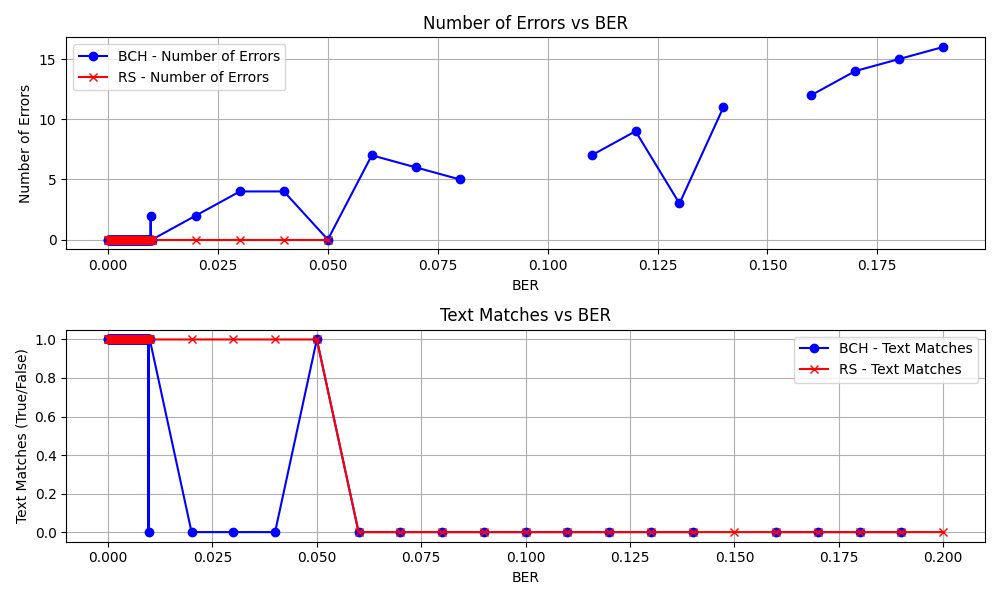
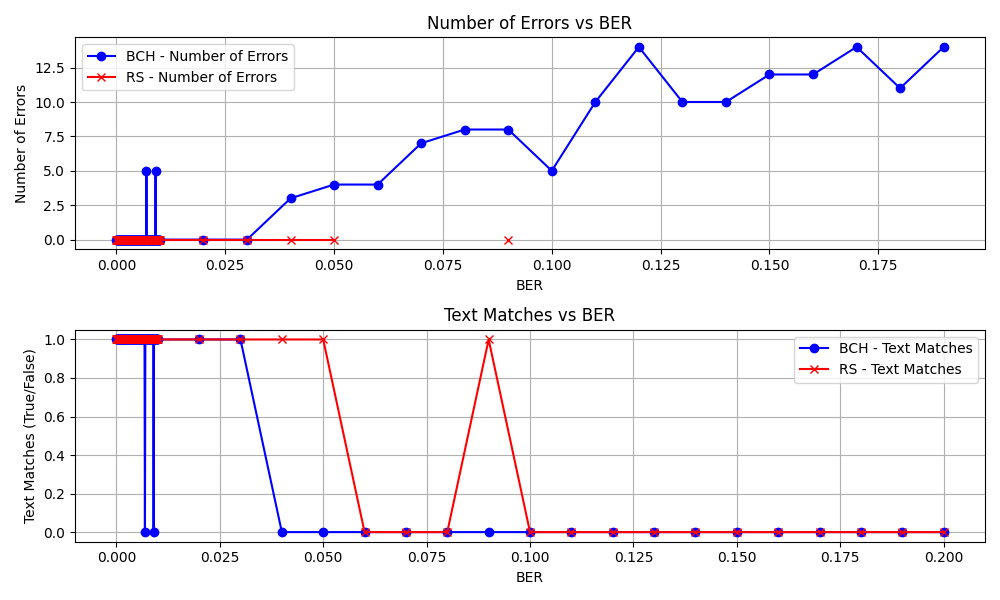
Better looking chart

diff --git a/monte-carlo-simulation/scripts/BCH_vs_RS_in_BSC.py b/monte-carlo-simulation/scripts/BCH_vs_RS_in_BSC.py
@@ -119,7 +119,7 @@ def run_simulation(input_text, channel, code_type, ber_value):
         process.stdin.write(f"{code_type}\n")
 
         if code_type == "RS":
-            process.stdin.write("16\n")  # Parity symbols for RS (if applicable)
+            process.stdin.write("32\n")  # Parity symbols for RS (if applicable)
 
         process.stdin.write(f"{ber_value}\n")
         process.stdin.flush()
